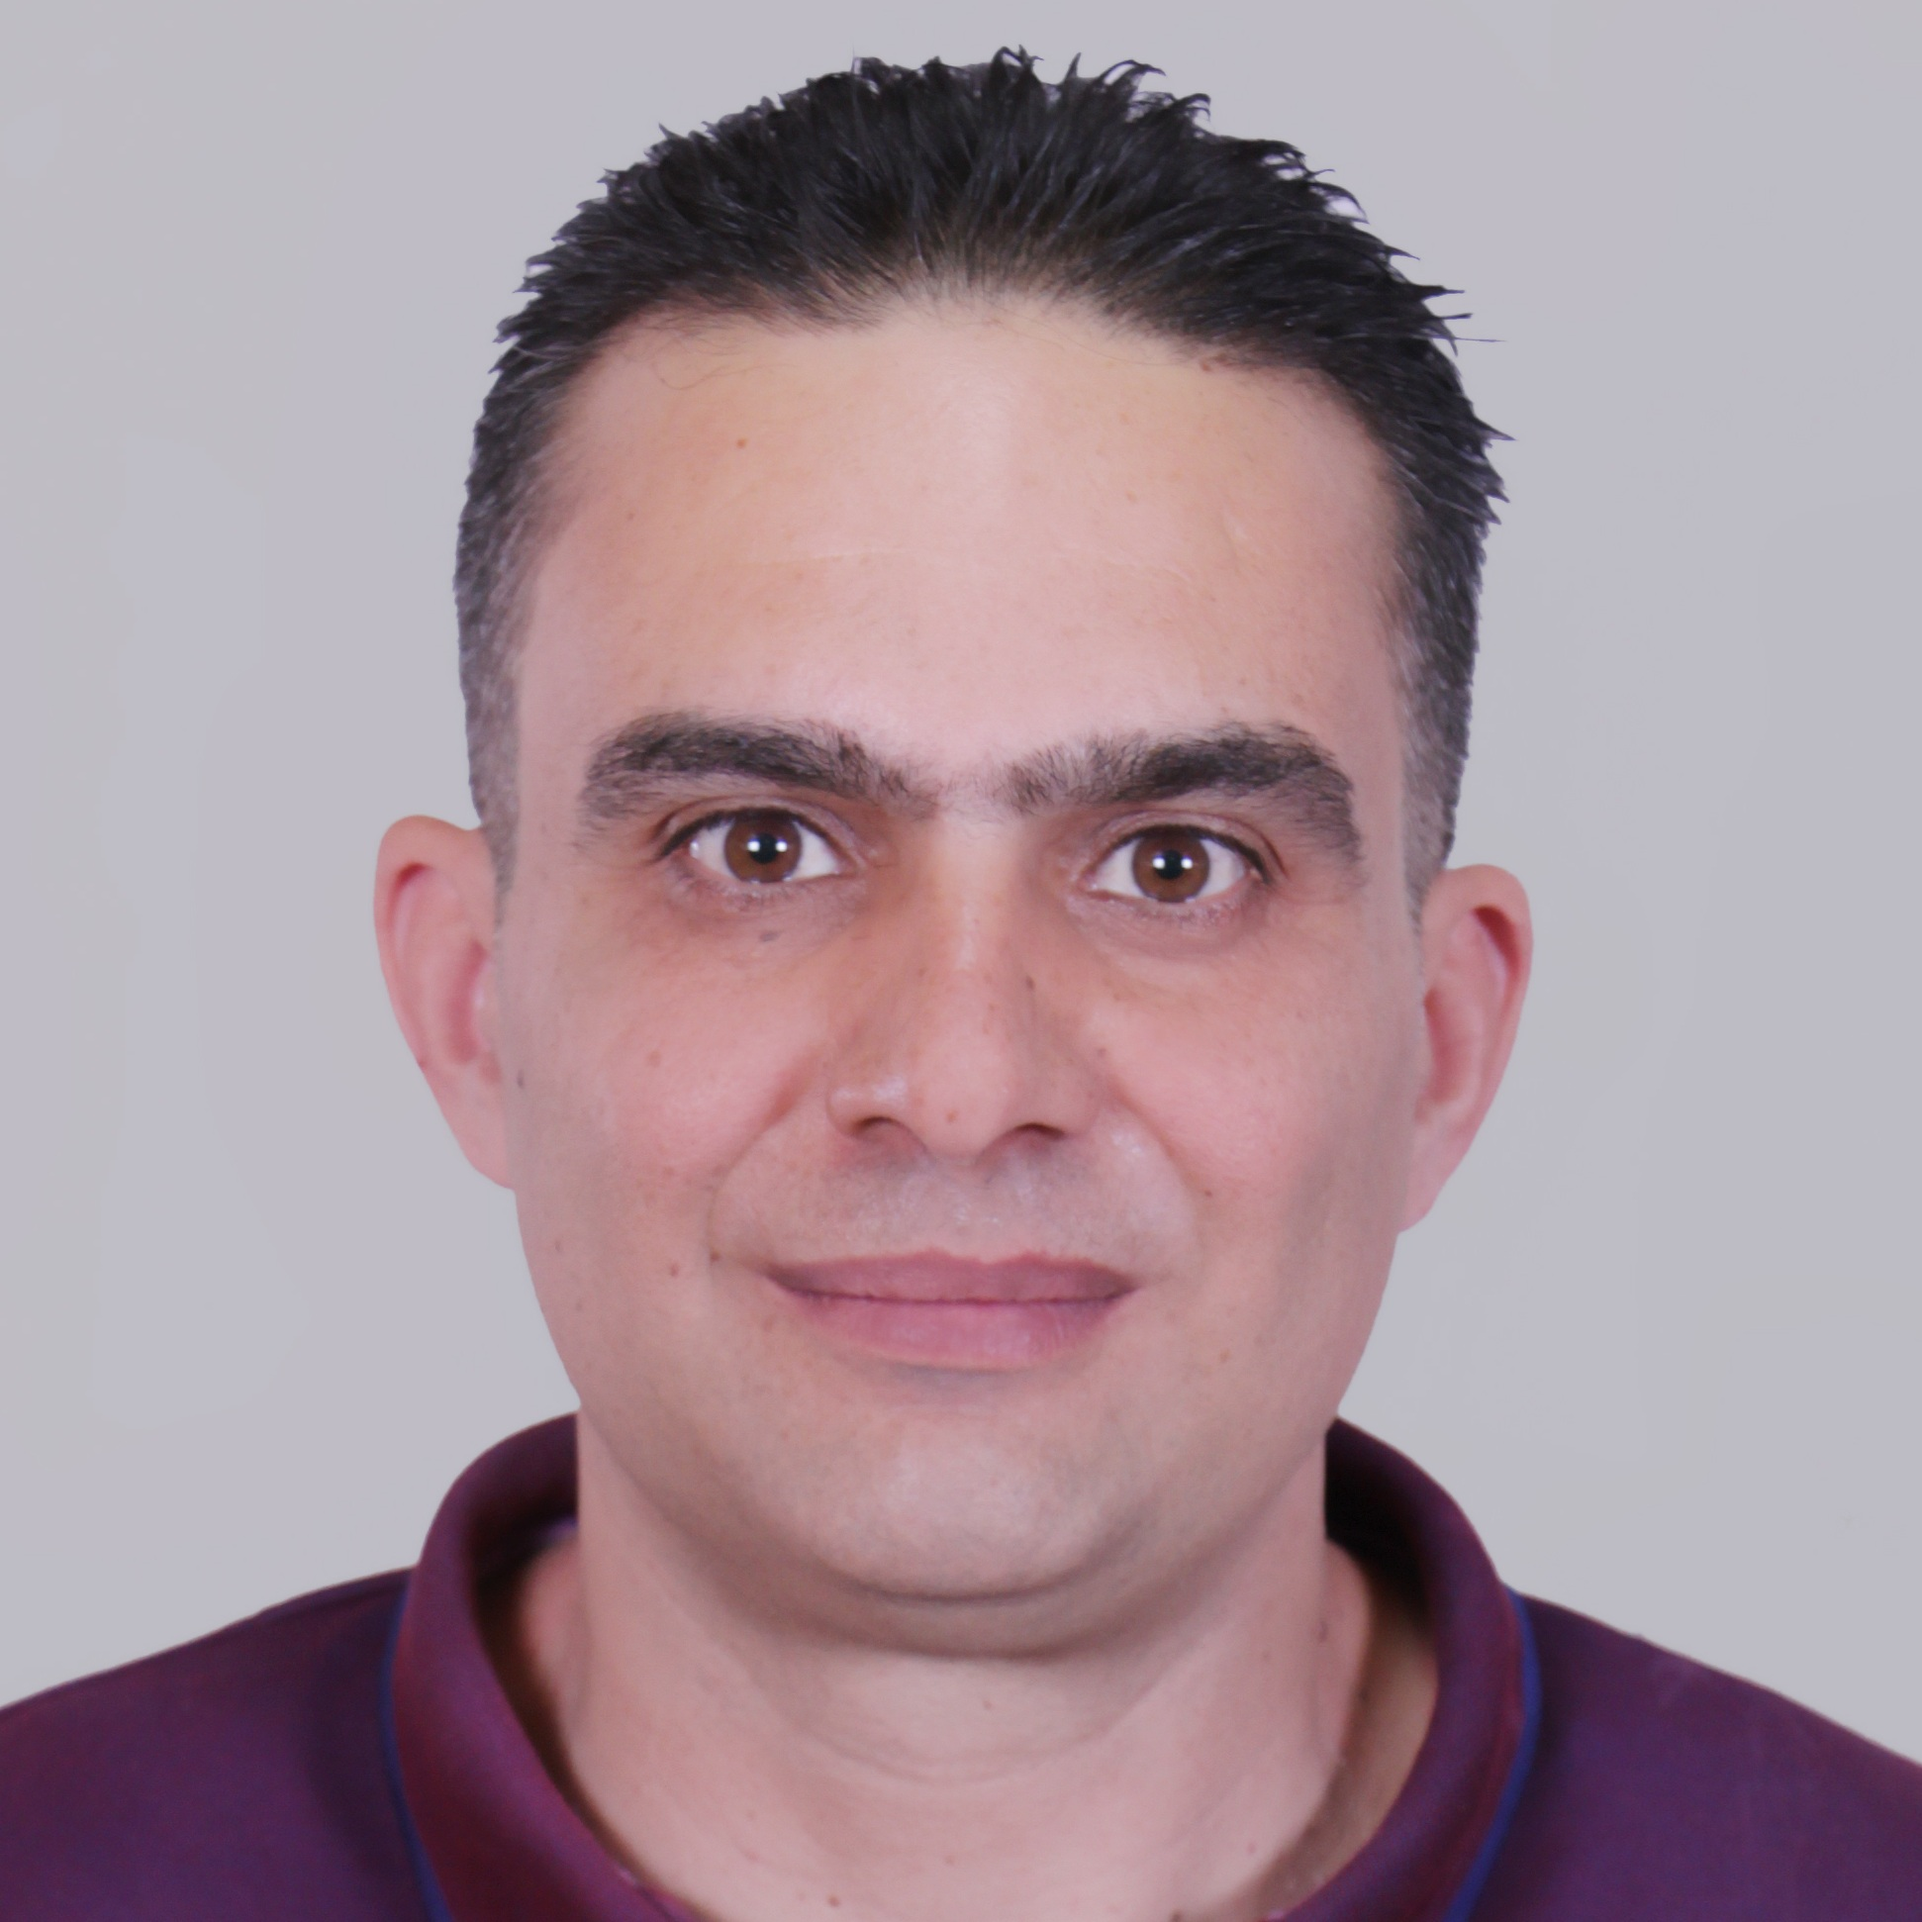
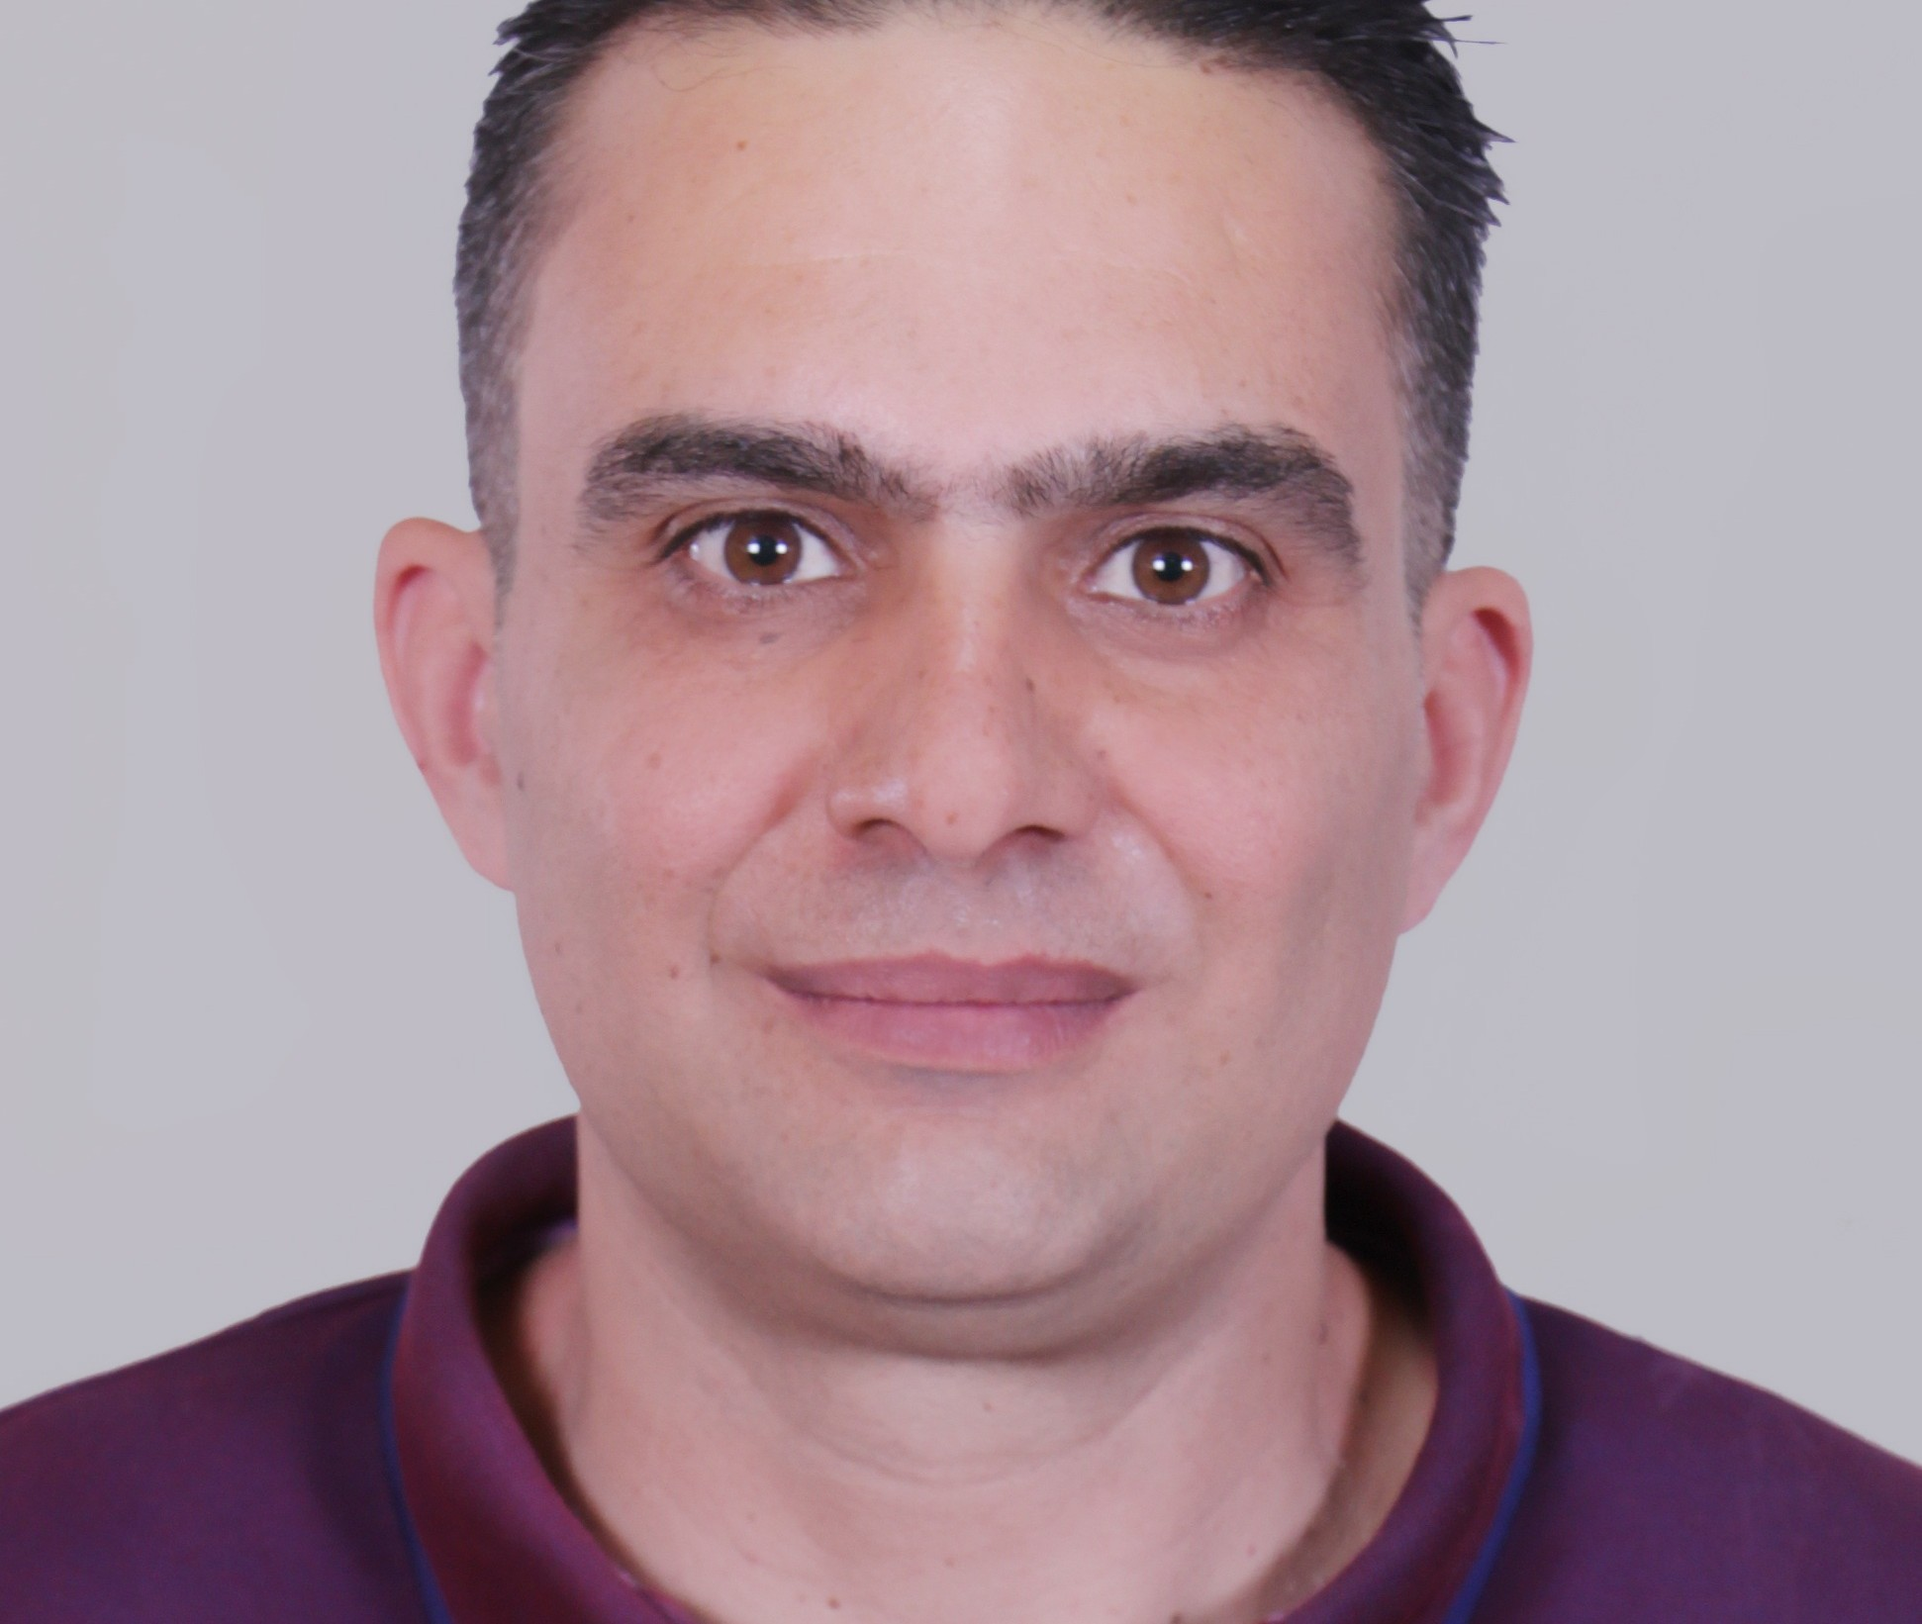
updates

Changed region(s): [[0.0, 0.0, 1.0, 0.9945], [0.6797, 0.5283, 0.7106, 0.5594]]

diff --git a/app/about/data.ts b/app/about/data.ts
@@ -71,11 +71,11 @@ export const executiveCommittee = [
     photo: "/team/dalila.jpg"
   },
   {
-    name: "Ines Bouzguenda",
-    phone: "50080364",
+    name: "Firas Arfaoui",
+    phone: "93656804",
     position: "Ceremonies Manager",
-    email: "inesbouzguenda777@gmail.com",
-    photo: "/team/ines.jpg"
+    email: "firasarfaoui2003@ieee.org",
+    photo: "/team/firas.jpg"
   }
 ];
 
@@ -117,13 +117,6 @@ export const mediaTeam = [
     position: "Media Manager",
     email: "wyssemneila@ieee.org",
     photo: "/team/wyssem.jpg"
-  },
-  {
-    name: "Hani Chabir",
-    phone: "50375715",
-    position: "Media team",
-    email: "hani.chabir26@gmail.com",
-    photo: "/team/chabir.jpg"
   },
 ];
 
@@ -178,28 +171,13 @@ export const sponsoringTeam = [
     photo: "/team/omar.jpg"
   },
   {
-    name: "Amira Lahiani",
-    phone: "54926200",
-    position: "Sponsoring Team",
-    email: "amiralahiani2004@gmail.com",
-    photo: "/team/lahiani.jpg"
-  },
-  {
     name: "Mariem Ben Abid",
     phone: "20556447",
     position: "Sponsoring Team",
     email: "mariembenabid2004@gmail.com",
     photo: "/team/benabid.jpg"
   },
-  
-  
-  {
-    name: "Houssem Chourou",
-    phone: "92824054",
-    position: "Sponsoring Team",
-    email: "chourouhoussam@ieee.com",
-    photo: "/team/chourou.jpg"
-  },
+
   {
     name: "Rakia Tsouri",
     phone: "28772311",
@@ -207,13 +185,7 @@ export const sponsoringTeam = [
     email: "tsourirakia88@gmail.com",
     photo: "/team/rakia.jpg"
   },
-  {
-    name: "Mariem Kammoun",
-    phone: "26342999",
-    position: "Sponsoring Team",
-    email: "mariemkammoun01@gmail.com",
-    photo: "/team/kammoun.jpg"
-  },
+
   {
     name: "Mohamed Khalil Ammar",
     phone: "24962955",

diff --git a/app/program/speakers/page.tsx b/app/program/speakers/page.tsx
@@ -24,6 +24,14 @@ const SPEAKERS: Speaker[] = [
     website: "",
   },
   {
+    name: "Riadh Boukhris ",
+    country: "UAE",
+    position:
+      "Entrepreneur, Researcher, and Originator of Computational Service Science (CSS). He is the Founder & Director of Research at BlueWorld AI Labs and focuses on the computational foundations of service relationships and intelligent service systems.",
+    photo: "/speakers/riadh.jpg",
+    website: "",
+  },
+  {
     name: "Mohamed Saaed Darweesh",
     country: "Egypt",
     position:
@@ -108,6 +116,14 @@ const SPEAKERS: Speaker[] = [
     position:
       "Vice Chairwoman of IEEE Entrepreneurship Tunisia LG COO & Cofounder of TrinovaQ",
     photo: "/speakers/hela.png",
+    website: "",
+  },
+  {
+    name: "Montassar Hamza",
+    country: "Tunisia",
+    position:
+      "IoT & Embedded Systems Engineer specialized in Autonomous Mobile Robotics.",
+    photo: "/speakers/montassar.png",
     website: "",
   },
 ];
@@ -335,14 +351,14 @@ export default function SpeakersPage() {
             }}
           >
             <div className={styles.statItem}>
-              <span className={styles.statValue}>12</span>
+              <span className={styles.statValue}>14</span>
               <span className={styles.statLabel}>Speakers</span>
             </div>
 
             <div className={styles.statDivider} />
 
             <div className={styles.statItem}>
-              <span className={styles.statValue}>06</span>
+              <span className={styles.statValue}>07</span>
               <span className={styles.statLabel}>Countries</span>
             </div>
 

diff --git a/components/home/PartnersSection.tsx b/components/home/PartnersSection.tsx
@@ -80,6 +80,16 @@ const PARTNERS: Partner[] = [
     logo: "/partners/sps.png",
     website: "https://signalprocessingsociety.org",
   },
+  {
+    name: "IEEE Technology and Engineering Management Society",
+    logo: "/partners/tems.png",
+    website: "https://www.ieee-tems.org",
+  },
+  {
+    name: "IEEE YP",
+    logo: "/partners/yp.webp",
+    website: "https://yp.ieee.org",
+  },
 
 ];
 

diff --git a/app/program/challenges/challenges.ts b/app/program/challenges/challenges.ts
@@ -92,7 +92,7 @@ export const CHALLENGES: Challenge[] = [
     ],
     recordLink:
       "https://drive.google.com/file/d/1R07KBGXyT_s23bgsSvlzkqithm4WGQs-/view?usp=sharing",
-    phase1Deadline: "12 November 2026",
+    phase1Deadline: "08 November 2026",
     infoSessionDate: "09 September 2026",
   },
 
